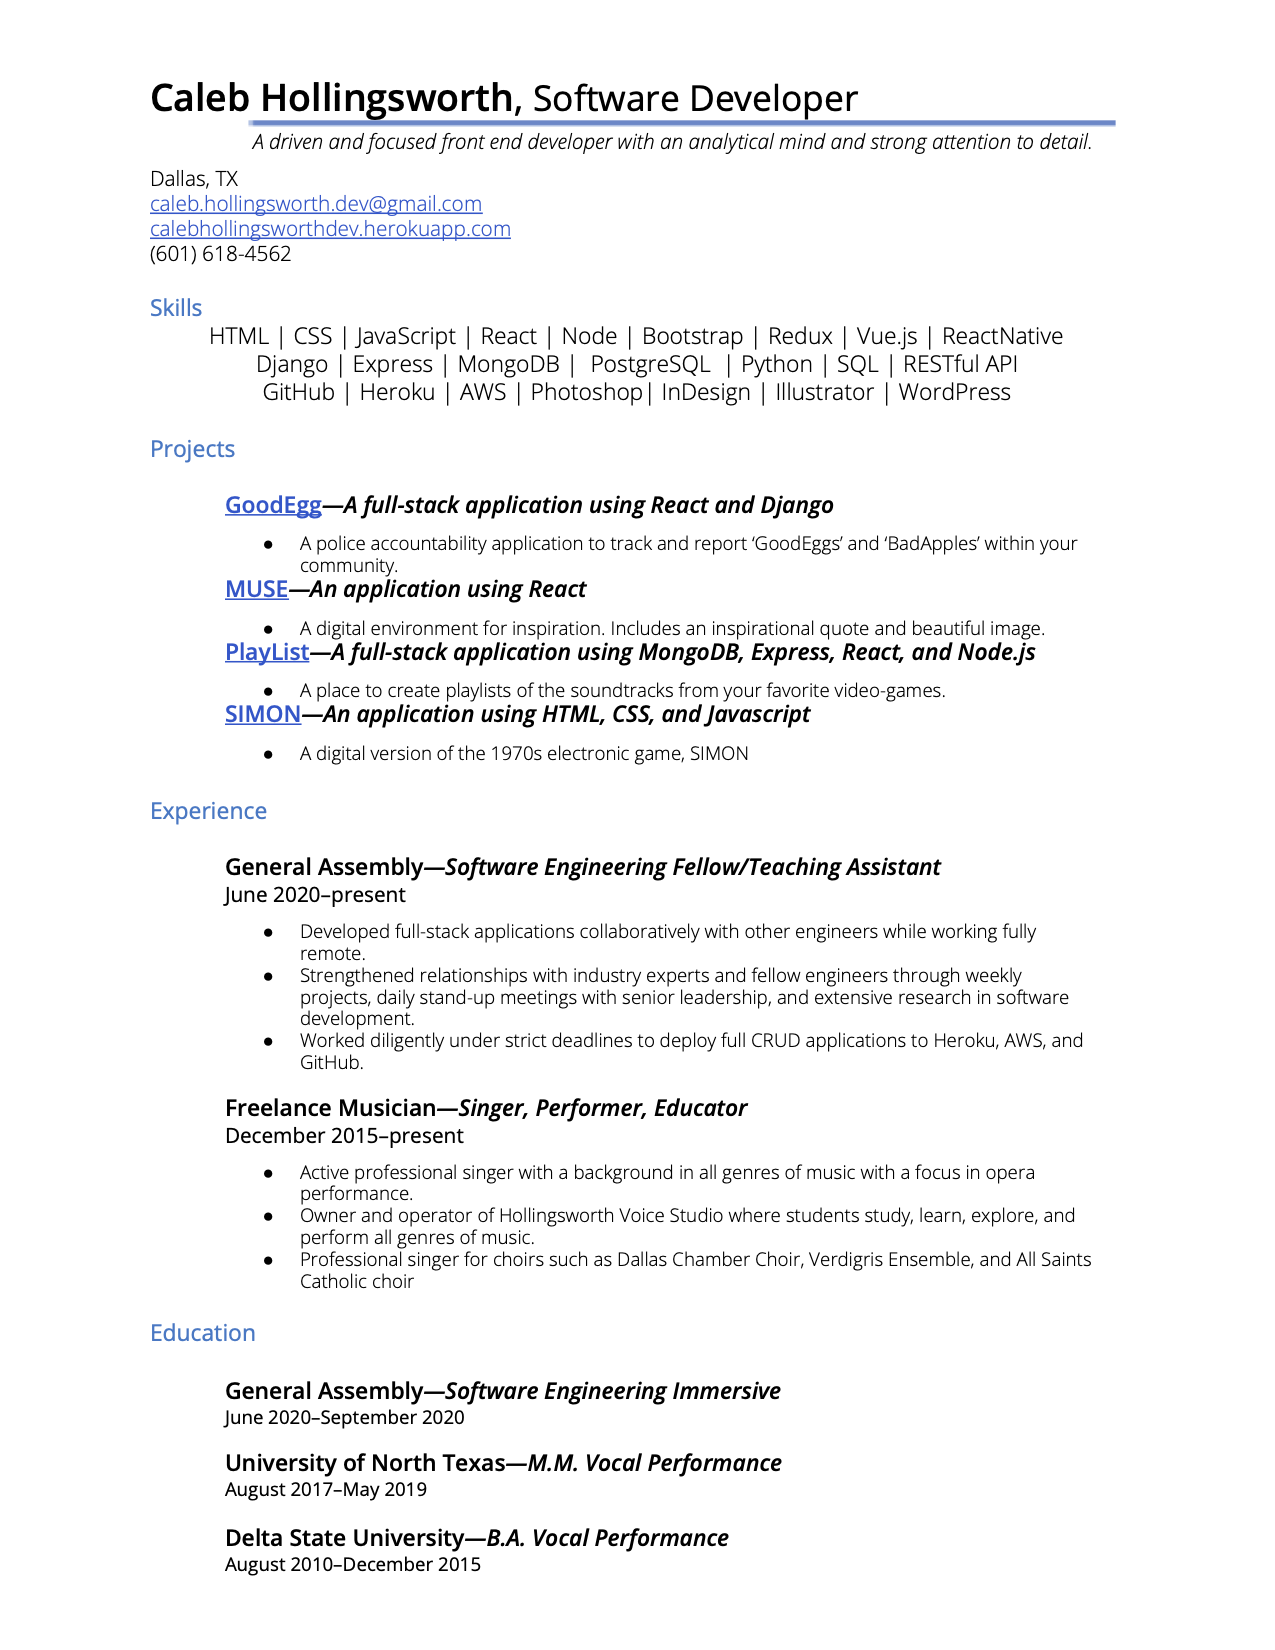
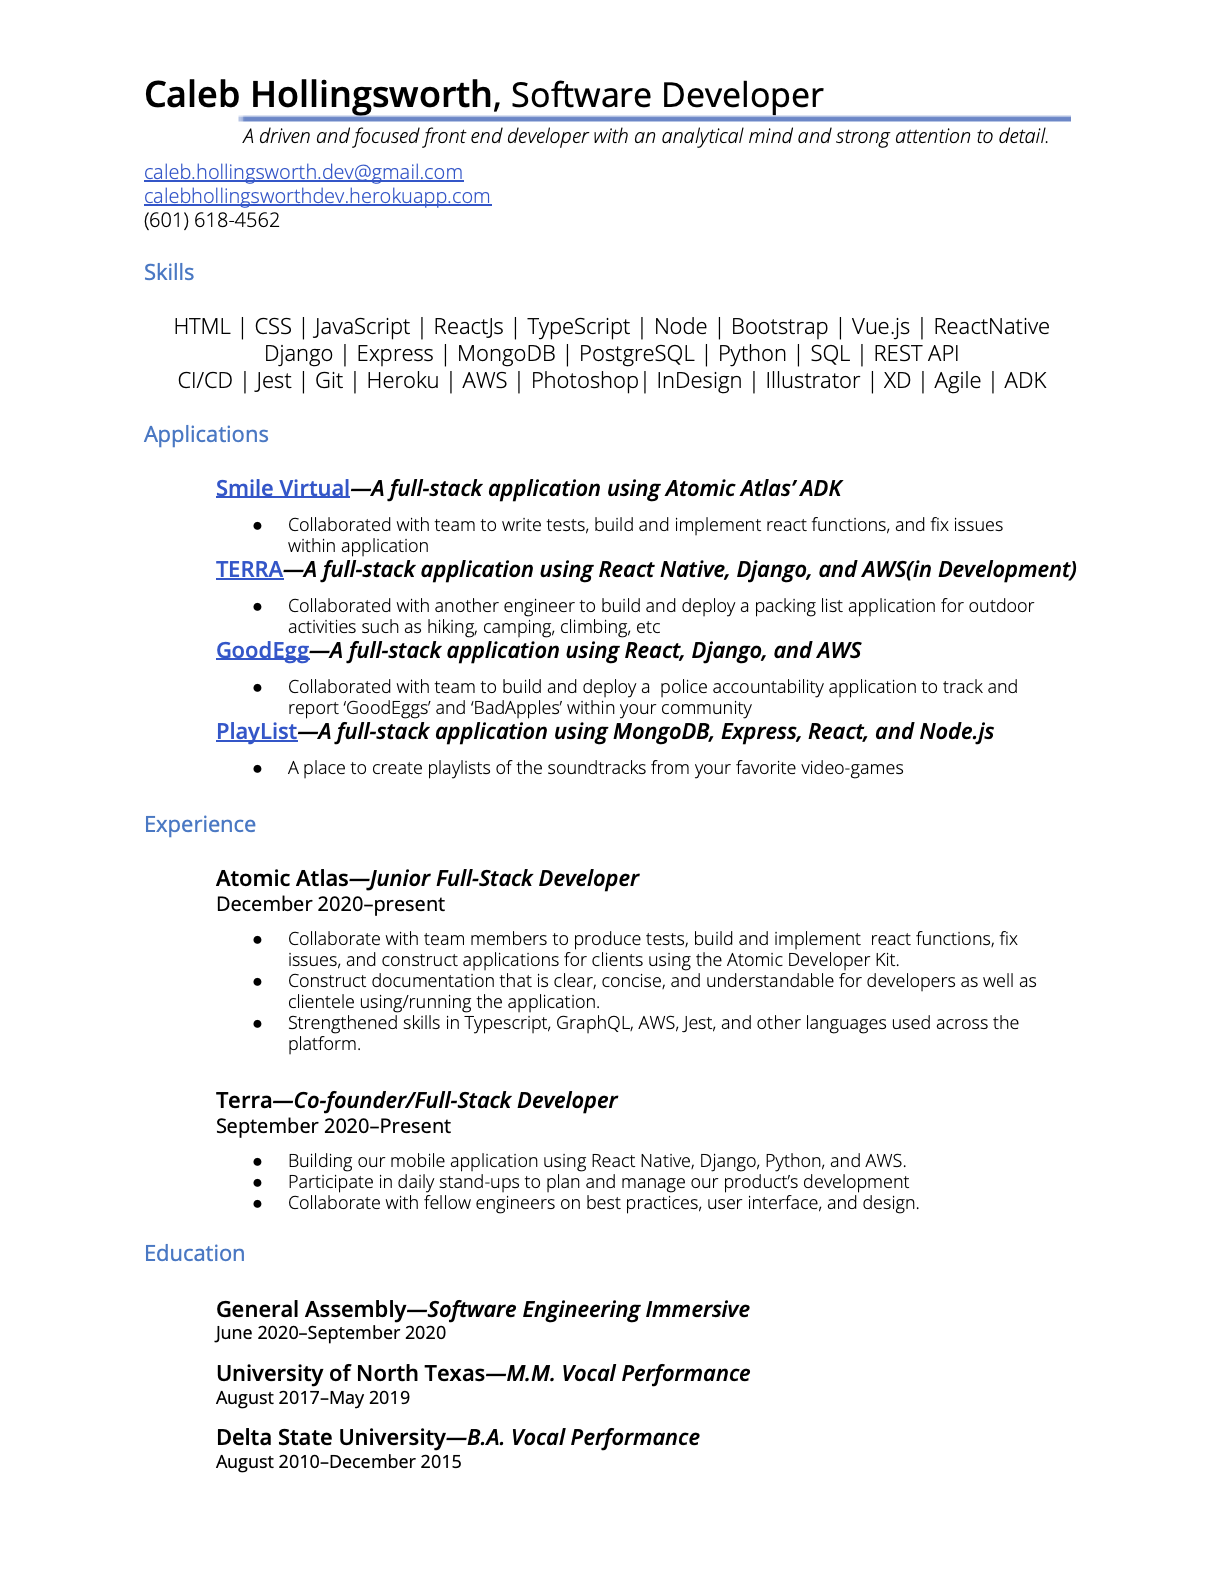
changed resume and techs

Changed region(s): [[0.1242, 0.0619, 0.8693, 0.959]]

diff --git a/src/components/About/Technologies/Technologies.js b/src/components/About/Technologies/Technologies.js
@@ -13,10 +13,12 @@ const Technologies = () => {
 				<div>
 					<h2>frontend</h2>
 					<main>
-						<p>HTML</p>
-						<p>CSS</p>
-						<p>React</p>
-						<p>JS</p>
+						<p>HTML5</p>
+						<p>CSS3</p>
+						<p>JavaScript</p>
+						<p>React.js</p>
+						<p>TypeScript</p>
+						<p>ReactNative</p>
 						<p>Bootstrap</p>
 						<p>Axios</p>
 						<p>flexbox</p>
@@ -33,21 +35,24 @@ const Technologies = () => {
 						<p>PostgreSQL</p>
 						<p>Mongoose</p>
 						<p>MongoDB</p>
+						<p>Node.js</p>
+						<p>RESTful APIs</p>
 					</main>
 				</div>
 				<div>
 					<h2>other</h2>
 					<main>
 						<p>CRUD</p>
-						<p>API</p>
 						<p>Heroku</p>
+						<p>Jest</p>
+						<p>Git</p>
 						<p>AWS</p>
-						<p>Node</p>
-						<p>REST</p>
 						<p>VSCode</p>
 						<p>Photoshop</p>
 						<p>InDesign</p>
 						<p>Illustrator</p>
+						<p>XD</p>
+						<p>Atomic Dev Kit</p>
 						<p>GitHub</p>
 					</main>
 				</div>
